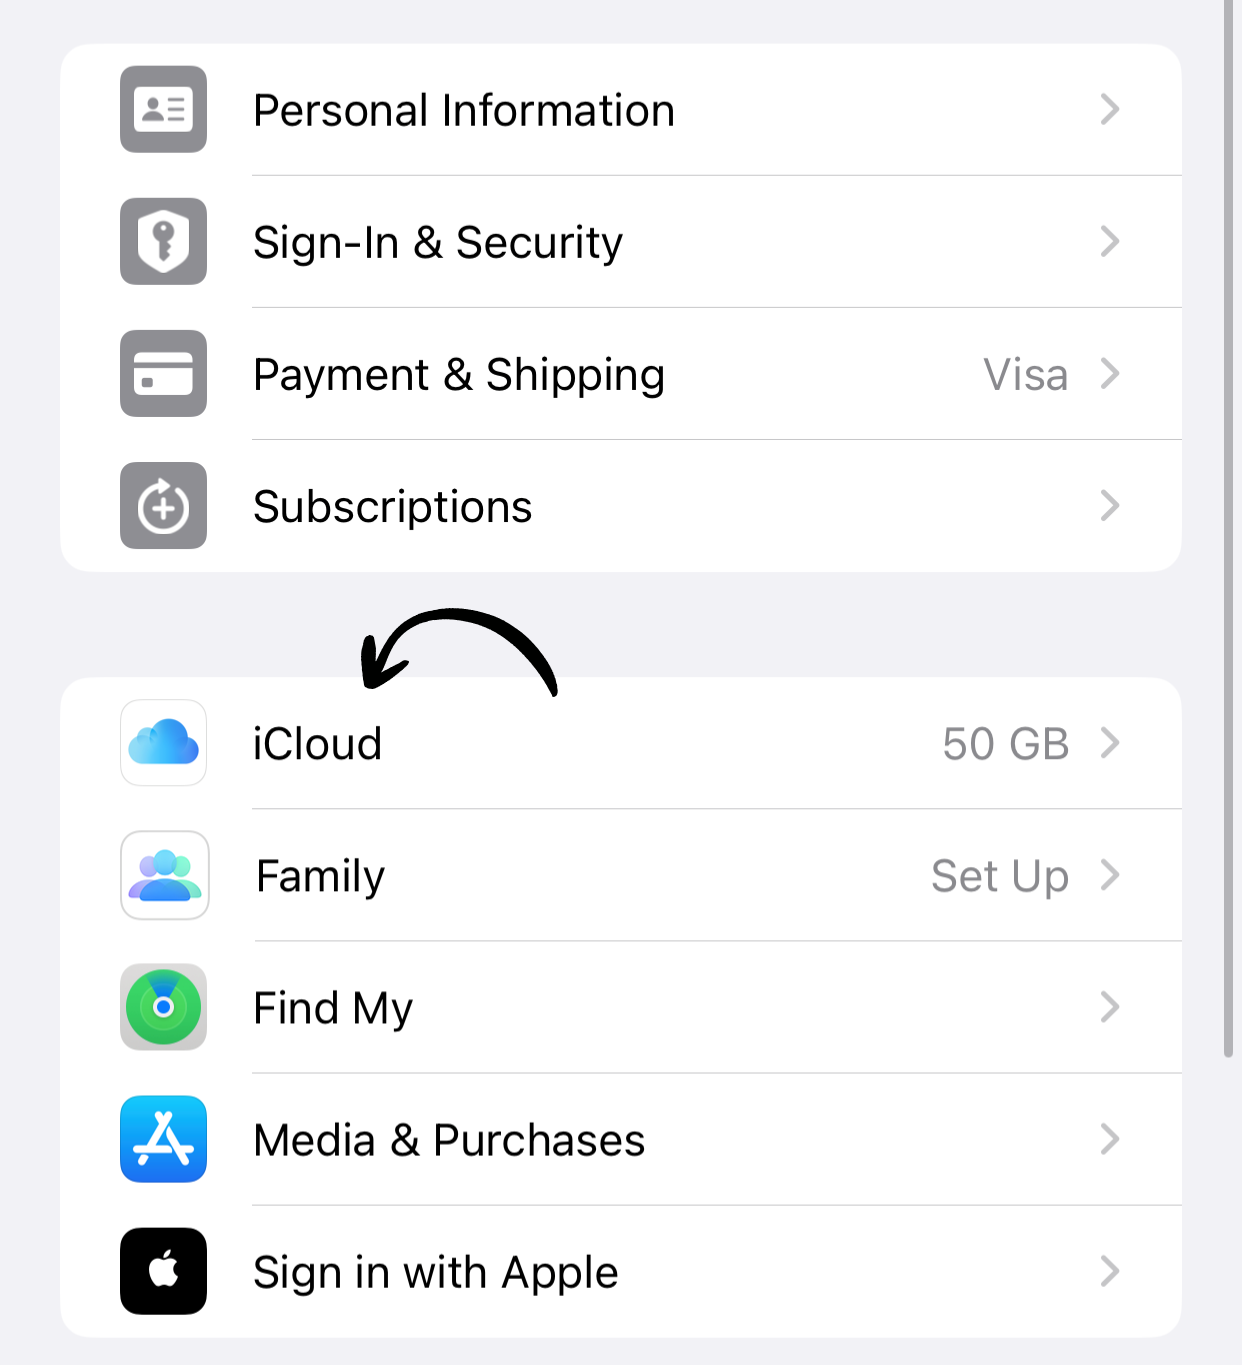
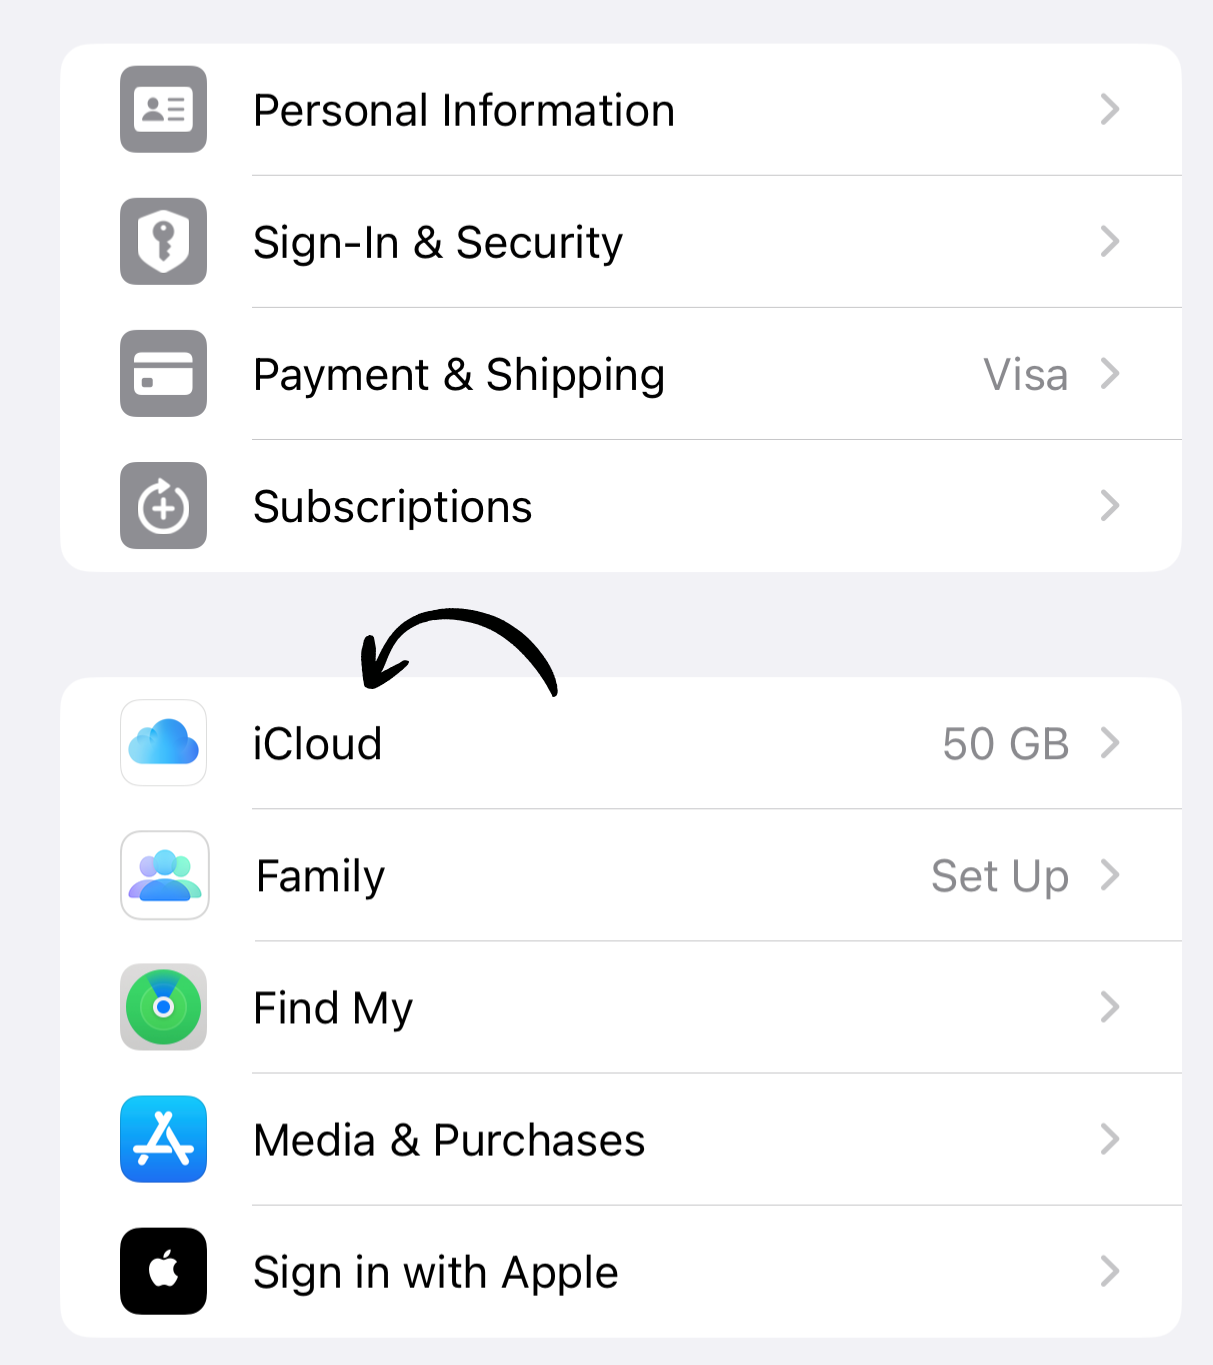
Update guides

diff --git a/_guides/clear-recently-deleted.md b/_guides/clear-recently-deleted.md
@@ -36,22 +36,23 @@ Empty the Recently Deleted album to reclaim storage immediately.
 ### 1. Open the Photos App
 
 Tap the **Photos** icon on your home screen.
+![Photos app on home screen](/assets/guides/clear-recently-deleted/photos.png)
 
-### 2. Go to Albums
-
-Tap the **Albums** tab at the bottom.
-
-### 3. Scroll to Recently Deleted
+### 2. Scroll to Recently Deleted
 
 Scroll down to the **Utilities** section and tap **Recently Deleted**.
+![Recently Deleted in Utilities](/assets/guides/clear-recently-deleted/recently-deleted.png)
 
-### 4. Empty the Album
+### 3. Empty the Album
 
 Tap **Select** in the top right, then tap **Delete All** in the bottom left.
+![Delete All in Recently Deleted](/assets/guides/clear-recently-deleted/select.png)
+![Delete All in Recently Deleted](/assets/guides/clear-recently-deleted/delete-all.png)
 
-### 5. Confirm Deletion
+### 4. Confirm Deletion
 
-Tap **Delete [X] Photos** to permanently remove them.
+Tap **Delete From All Devices** to permanently remove them.
+![Confirm delete photos popup](/assets/guides/clear-recently-deleted/delete-from-all-devices.png)
 
 ✅ **Done!** Storage is freed up immediately.
 

diff --git a/_guides/adaptive-power-mode.md b/_guides/adaptive-power-mode.md
@@ -41,19 +41,22 @@ Optimized Battery Charging learns your daily charging routine and waits to finis
 
 Tap **Settings** on your home screen.
 
-![iOS Settings main screen](/assets/guides/adaptive-power-mode/ios_settings_example.png)
+![Settings icon on home screen](/assets/guides/ios_settings_example.png)
 
 ### 2. Go to Battery
 
 Tap **Battery**.
+![Battery settings screen](/assets/guides/adaptive-power-mode/battery.png)
 
 ### 3. Tap Battery Health & Charging
 
 Tap **Battery Health & Charging** (or **Battery Health** on older iOS versions).
+![Battery Health and Charging screen](/assets/guides/adaptive-power-mode/battery-health.png)
 
 ### 4. Enable Optimized Battery Charging
 
 Toggle on **Optimized Battery Charging**.
+![Optimized Battery Charging toggle](/assets/guides/adaptive-power-mode/optimized-battery-charging.png)
 
 ✅ **Done!** Your iPhone will now learn your charging patterns.
 

diff --git a/_guides/clear-safari-cache.md b/_guides/clear-safari-cache.md
@@ -55,10 +55,10 @@ Scroll down and tap **Clear History and Website Data**.
 
 ### 4. Confirm
 
-Tap **Clear History and Data** in the popup.
+Tap **Clear History** in the popup.
+![Confirm clear history popup](/assets/guides/clear-safari-cache/clear-history.png)
 
 ✅ **Done!** Safari cache is cleared.
-![Confirm clear history popup](/assets/guides/clear-safari-cache/clear-history.png)
 
 ## What Gets Deleted
 

diff --git a/_guides/review-large-attachments.md b/_guides/review-large-attachments.md
@@ -71,7 +71,7 @@ Tap the recommendation to see all large files.
 You'll see files sorted by size. For each one:
 - Tap **Edit** in the top right
 - Select files you want to delete
-- Tap **Delete** at the bottom
+- Tap **Delete**
 ![Delete large files screen](/assets/guides/review-large-attachments/edit.png)
 ![Delete large files screen](/assets/guides/review-large-attachments/delete.png)
 
